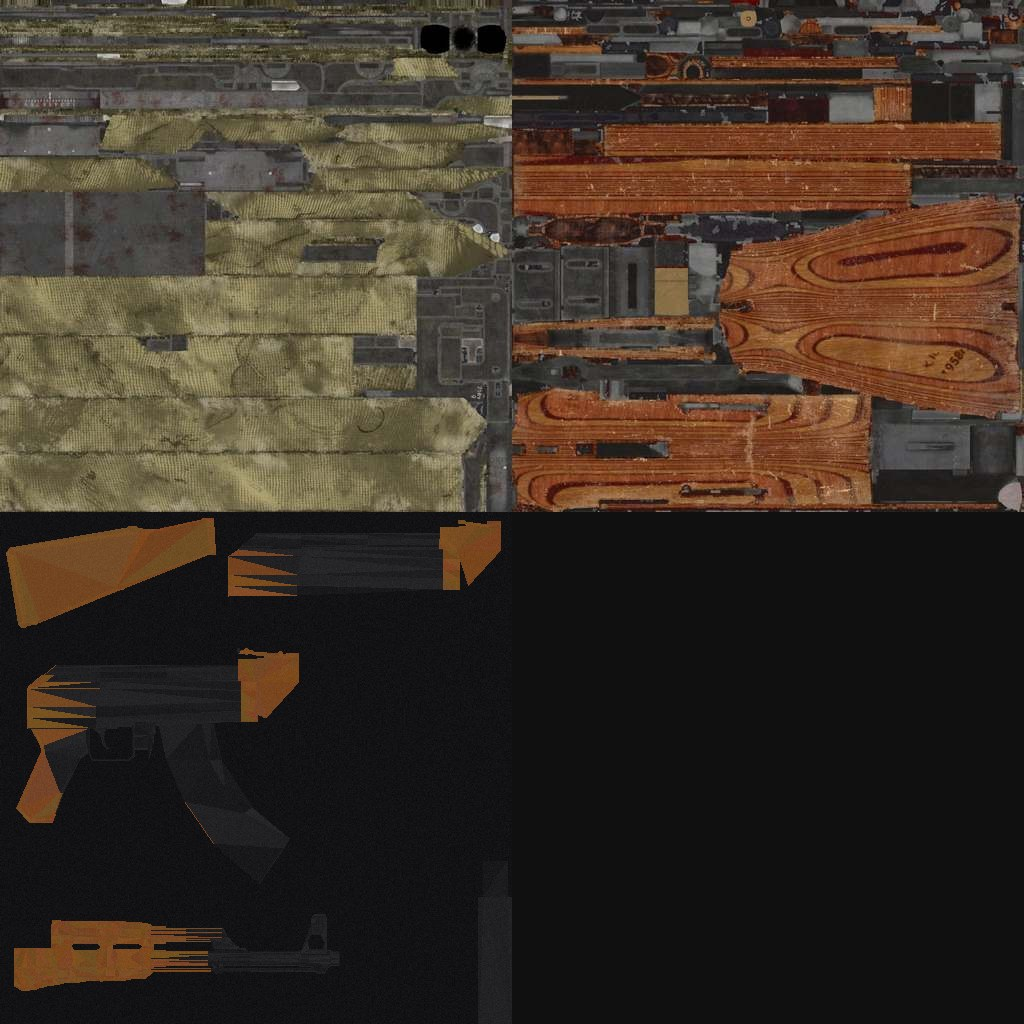
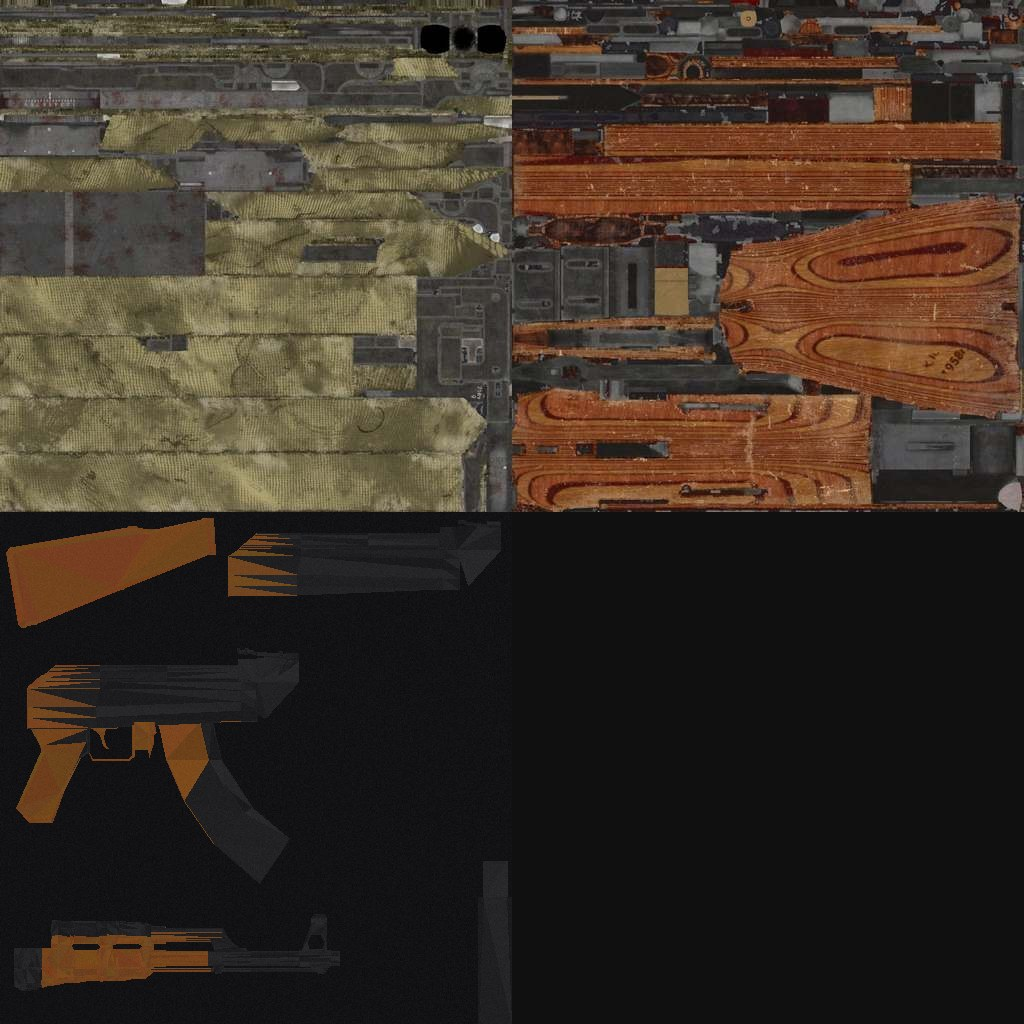
The AK held the way the rifle is held: rebaked into the same envelope, and the top cover went back to steel

diff --git a/examples/webgpu/world/host.js b/examples/webgpu/world/host.js
@@ -15,8 +15,8 @@
 // The plumbing — WASI shim, instantiation, init — is `world.js`, which
 // `rill build` generates beside the module.
 
-import { load } from "./world.js?v=334";   // keep in step with V below
-import { join, others, me, sharkNow, everyone } from "./net.js?v=334";
+import { load } from "./world.js?v=335";   // keep in step with V below
+import { join, others, me, sharkNow, everyone } from "./net.js?v=335";
 
 // One number, appended to every asset URL.
 //
@@ -26,7 +26,7 @@ import { join, others, me, sharkNow, everyone } from "./net.js?v=334";
 // and there is no purging it without a token. A version in the query string
 // makes a new file a new URL, which is the only cache invalidation that needs
 // nobody's permission. Bump it with `?v=` in index.html.
-const V = "334";
+const V = "335";
 
 // ---- what the machine can afford -------------------------------------------
 

diff --git a/examples/webgpu/world/index.html b/examples/webgpu/world/index.html
@@ -568,7 +568,7 @@
     // world.wasm behind an unversioned URL is served from cache, and what you
     // get is new renderer against old world — which looks exactly like the fix
     // you just made not working.
-    import { run } from "./host.js?v=334";
+    import { run } from "./host.js?v=335";
 
     // Whose valley. `?join` takes the one this page is served from,
     // `?join=wss://box/valley` somebody else's, and no `join` at all is the
@@ -647,7 +647,7 @@
     const what = document.getElementById("what");
     const pct = document.getElementById("pct");
 
-    run(document.getElementById("c"), "./world.wasm?v=334", (h) => {
+    run(document.getElementById("c"), "./world.wasm?v=335", (h) => {
       const gpu = h.gpuMs ? ` · GPU ${h.gpuMs.toFixed(1)} ms` : "";
       const lock = h.locked ? "" : " (measuring…)";
       const here = h.here === null ? ""
